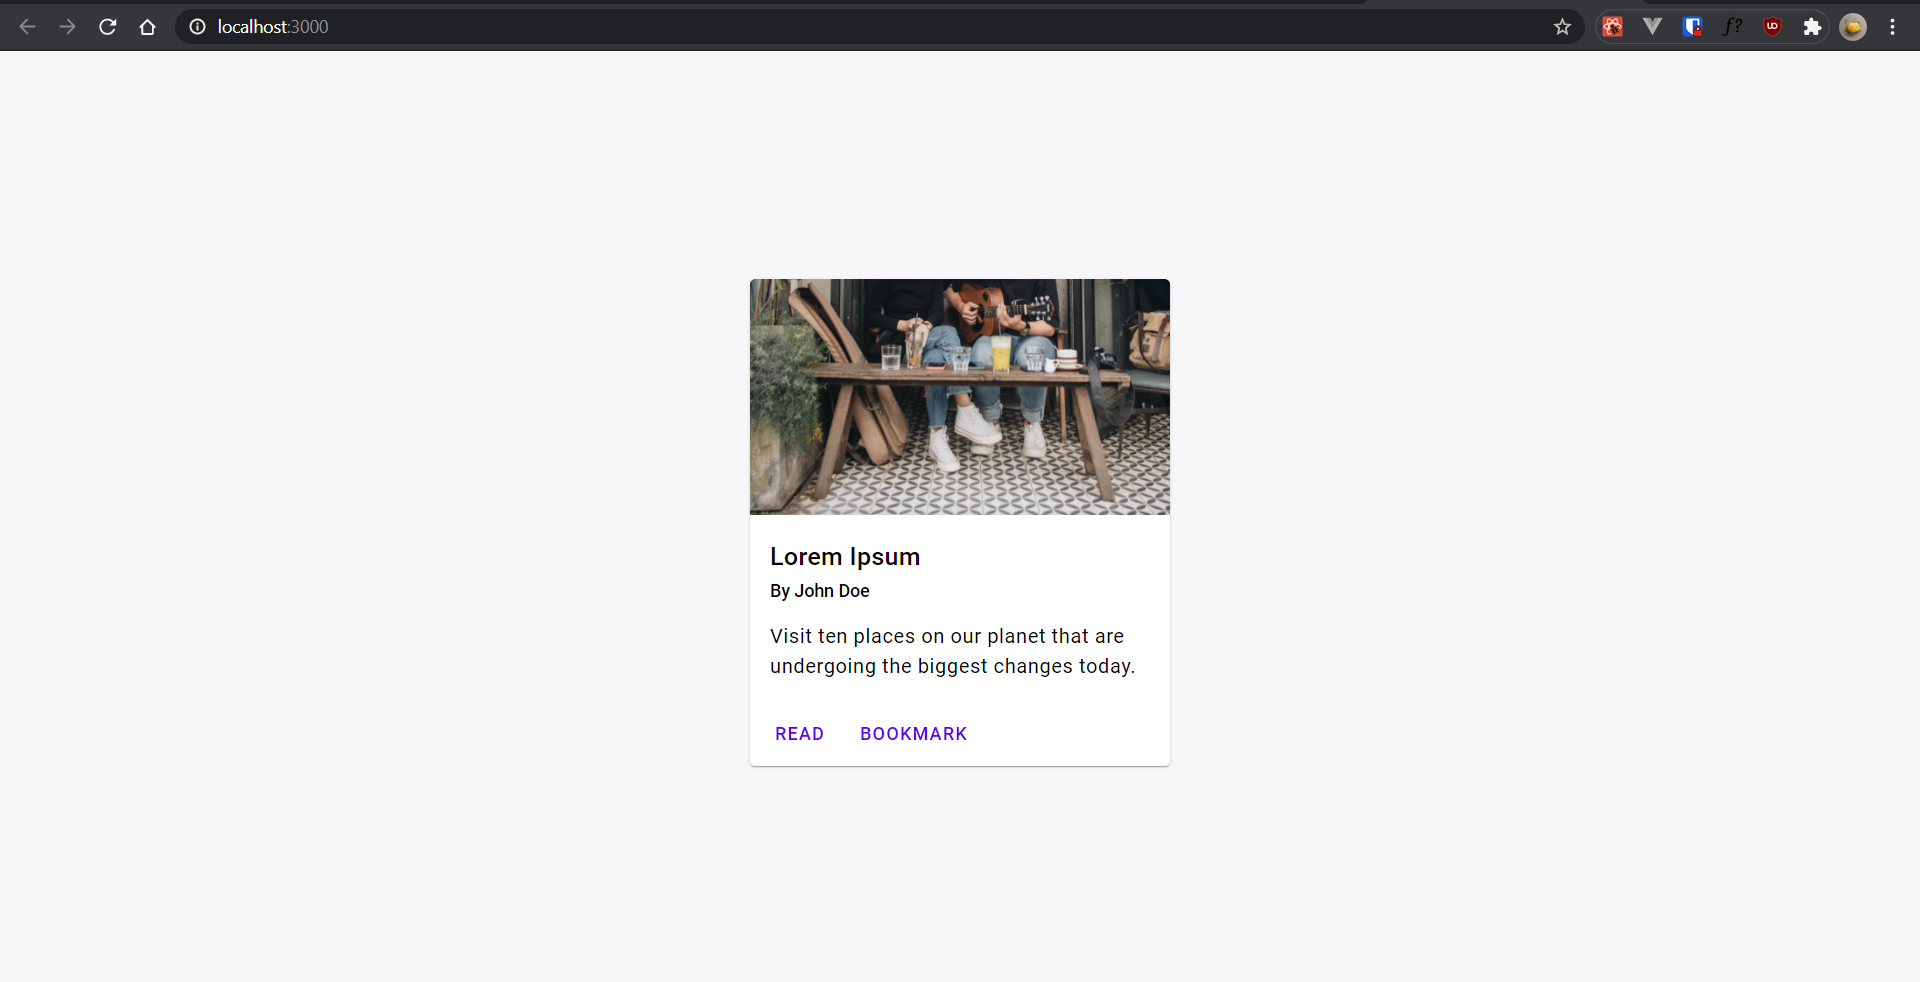
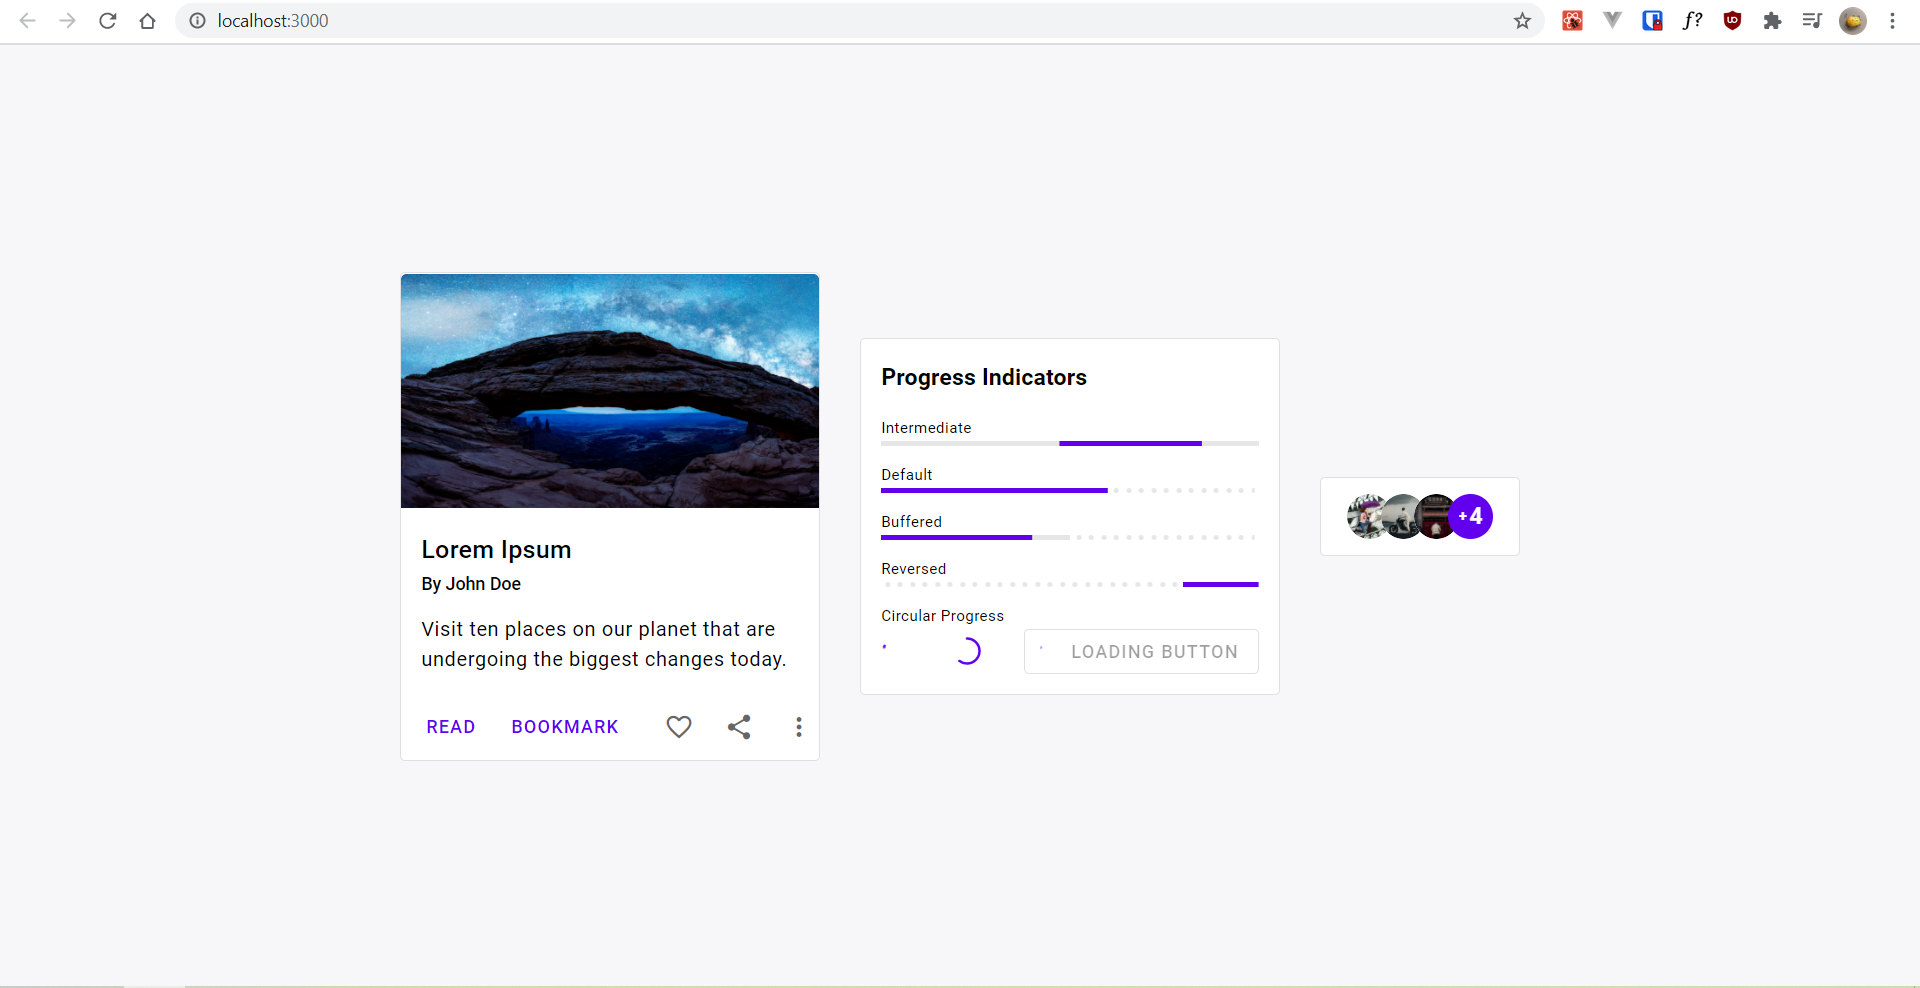
[Docs] Update README

diff --git a/example/src/index.css b/example/src/index.css
@@ -17,3 +17,30 @@ code {
   height: 100vh;
   background-color: #f7f7fa;
 }
+
+:root {
+  --mdc-theme-primary: #6200ee;
+  --mdc-theme-secondary: #03dac4;
+  --mdc-theme-error: #b00020;
+  --mdc-theme-background: #fff;
+  --mdc-theme-surface: #fff;
+  --mdc-theme-on-primary: rgba(255, 255, 255, 1);
+  --mdc-theme-on-secondary: rgba(0, 0, 0, 0.87);
+  --mdc-theme-on-surface: rgba(0, 0, 0, 0.87);
+  --mdc-theme-on-error: #fff;
+  --mdc-theme-text-primary-on-background: rgba(0, 0, 0, 0.87);
+  --mdc-theme-text-secondary-on-background: rgba(0, 0, 0, 0.54);
+  --mdc-theme-text-hint-on-background: rgba(0, 0, 0, 0.38);
+  --mdc-theme-text-disabled-on-background: rgba(0, 0, 0, 0.38);
+  --mdc-theme-text-icon-on-background: rgba(0, 0, 0, 0.38);
+  --mdc-theme-text-primary-on-light: rgba(0, 0, 0, 0.87);
+  --mdc-theme-text-secondary-on-light: rgba(0, 0, 0, 0.54);
+  --mdc-theme-text-hint-on-light: rgba(0, 0, 0, 0.38);
+  --mdc-theme-text-disabled-on-light: rgba(0, 0, 0, 0.38);
+  --mdc-theme-text-icon-on-light: rgba(0, 0, 0, 0.38);
+  --mdc-theme-text-primary-on-dark: white;
+  --mdc-theme-text-secondary-on-dark: rgba(255, 255, 255, 0.7);
+  --mdc-theme-text-hint-on-dark: rgba(255, 255, 255, 0.5);
+  --mdc-theme-text-disabled-on-dark: rgba(255, 255, 255, 0.5);
+  --mdc-theme-text-icon-on-dark: rgba(255, 255, 255, 0.5);
+}

diff --git a/README.md b/README.md
@@ -7,8 +7,11 @@ WIP bindings to [RMWC](https://rmwc.io) for ReScript.
 - Button
 - Card
 - Typography
-
-Note: Icons are still missing
+- Tooltips
+- Avatar
+- Icons
+- Linear Progress
+- Circular Progress
 
 ### How to use
 
